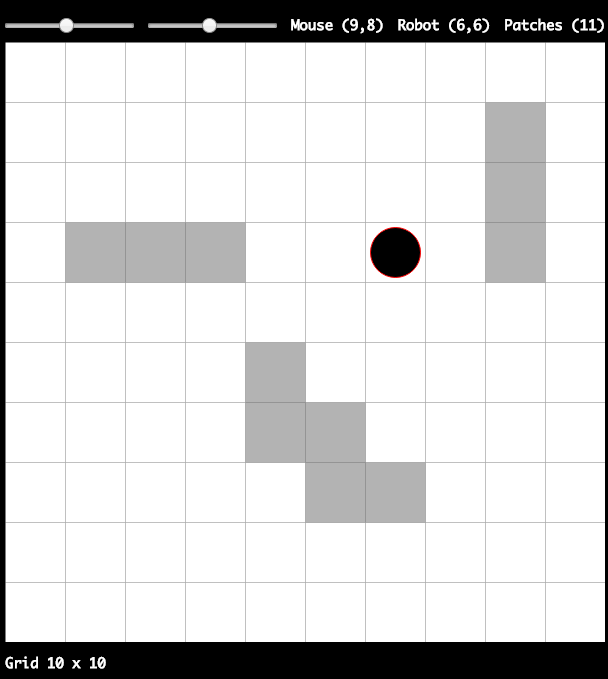
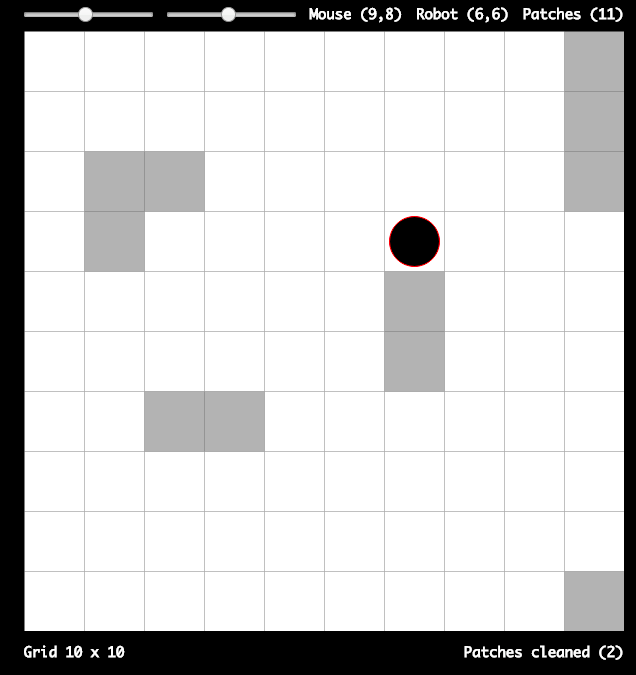
Add 'Patches cleaned' display

diff --git a/src/js/controls/detailsInput.js b/src/js/controls/detailsInput.js
@@ -4,6 +4,11 @@ const updateNumberOfDirtPatches = (surface, $patches) => {
   $patches.innerHTML = `Patches (${dirtPatches})`;
 };
 
+let patchesCleaned = 0;
+const updateNumberOfDirtPatchesCleaned = $patchesCleaned => {
+  $patchesCleaned.innerHTML = `Patches cleaned (${++patchesCleaned})`;
+};
+
 const updateRobotPosition = (surface, $robot) => {
   const { robot, convertPositionToCoords } = surface;
   if (robot) {
@@ -23,17 +28,16 @@ const updateDisplay = (surface, $patches, $robot, $grid) => {
   updateGridDimensions(surface, $grid);
 };
 
-export default (canvas, $patches, $robot, $grid, surface) => {
+export default (canvas, $patches, $patchesCleaned, $robot, $grid, surface) => {
   updateDisplay(surface, $patches, $robot, $grid);
   // Updates the number of dirt patches, the robot position and the grid dimensions,
   // each time that any object is modified.
   canvas.on({
-    'object:modified': updateDisplay.bind(
-      null,
-      surface,
-      $patches,
-      $robot,
-      $grid
-    ),
+    'object:modified': ({ action }) => {
+      if (action === 'clean') {
+        updateNumberOfDirtPatchesCleaned($patchesCleaned);
+      }
+      updateDisplay(surface, $patches, $robot, $grid);
+    },
   });
 };

diff --git a/src/js/controls/mouseInput.js b/src/js/controls/mouseInput.js
@@ -1,6 +1,13 @@
 export default ($mouse, surface) => {
   const $canvas = surface.canvas.lowerCanvasEl;
 
+  const cleanIfDirty = surface => {
+    if (surface.robot) {
+      const cell = surface.getCellAt(surface.robot.left, surface.robot.top);
+      return cell.properties.dirty ? cell.execute('clean') : cell;
+    }
+  };
+
   // Displays cell coordinates according to the mouse position.
   $canvas.addEventListener('mousemove', ({ offsetX, offsetY }) => {
     if (surface.isWithinBoundaries(offsetX, offsetY)) {
@@ -14,15 +21,11 @@ export default ($mouse, surface) => {
   $canvas.addEventListener('click', ({ offsetX, offsetY, shiftKey }) => {
     if (shiftKey) {
       surface.setRobot(offsetX, offsetY);
-      return surface
-        .getCellAt(surface.robot.left, surface.robot.top)
-        .execute('clean');
+      return cleanIfDirty(surface);
     }
 
     surface.getCellAt(offsetX, offsetY).execute('dirt');
 
-    if (surface.robot) {
-      surface.getCellAt(surface.robot.left, surface.robot.top).execute('clean');
-    }
+    cleanIfDirty(surface);
   });
 };

diff --git a/src/js/app.js b/src/js/app.js
@@ -14,6 +14,7 @@ const surface = new Surface(canvas, { x: 10, y: 10 });
 // Elements that display useful information.
 const $mouse = document.querySelector('#mouse');
 const $patches = document.querySelector('#patches');
+const $patchesCleaned = document.querySelector('#patches-cleaned');
 const $robot = document.querySelector('#robot');
 const $xRange = document.querySelector('#x-range');
 const $yRange = document.querySelector('#y-range');
@@ -21,5 +22,5 @@ const $grid = document.querySelector('#grid');
 
 mouseInput($mouse, surface);
 keyboardInput(surface);
-detailsInput(canvas, $patches, $robot, $grid, surface);
+detailsInput(canvas, $patches, $patchesCleaned, $robot, $grid, surface);
 sliderInput($xRange, $yRange, surface);

diff --git a/src/js/controls/keyboardInput.js b/src/js/controls/keyboardInput.js
@@ -15,9 +15,10 @@ export default surface => {
     // Execute only if an arrow key was pressed.
     if (move) {
       robot.execute(move);
-
-      // Always clean current cell of the robot.
-      surface.getCellAt(robot.left, robot.top).execute('clean');
+      const cell = surface.getCellAt(robot.left, robot.top);
+      if (cell.properties.dirty) {
+        cell.execute('clean');
+      }
     }
   });
 };

diff --git a/src/js/core/Cell.js b/src/js/core/Cell.js
@@ -42,7 +42,7 @@ export default class Cell extends fabric.Rect {
         nextAction.objectProperties
       );
 
-      this.canvas.trigger('object:modified');
+      this.canvas.trigger('object:modified', { action });
       return this;
     }
     return this;

diff --git a/index_template.html b/index_template.html
@@ -30,6 +30,7 @@
     <canvas tabindex="1" id="canvas" width="600" height="600"></canvas>
     <div class="details">
       <div id="grid">Grid N x N </div>
+      <div id="patches-cleaned"> Patches cleaned (0) </div>
     </div>
   </div>
 </body>

diff --git a/src/js/core/Surface.js b/src/js/core/Surface.js
@@ -146,6 +146,7 @@ export default class Surface {
     });
 
     this.canvas.add(this.robot);
+    this.canvas.trigger('object:modified');
     return this.robot;
   }
 

diff --git a/README.md b/README.md
@@ -6,7 +6,7 @@
  - node: ~=v5.12.0
  - npm: ~=3.8.6
 
-**Note 1:** One of the project dependencies is [fabric](http://fabricjs.com/) and it is currently in a transition period over to v2. The tests run properly only with node v5 as other v6+ is out of scope for fabric v1. 
+**Note 1:** One of the project dependencies is [fabric](http://fabricjs.com/) and it is currently in a transition period over to v2. The tests run properly only with node v5 as other v6+ is out of scope for fabric v1.
 
 **Note 2:** [fabric](http://fabricjs.com/) requires an old version of JSDOM for testing under node which requires [Python 2.7](https://www.python.org/download/releases/2.7/). If you want to run the tests under Windows/Linux you will need to install Python seperetely; MacOS is fine.
 
@@ -47,7 +47,7 @@ _See test output at the end of the readme._
  1. The room dimensions are specified by the sliders; left slider for X and right slider for Y coordinates. The dimensions are indicated by the grid size at the bottom left of the panel,  **Grid 10 x 10**.
  2. The location of the robot can be specified by clicking anywhere on the grid while holding down **Shift**. The coordinates of the mouse are indicated in the top panel, **Mouse (9, 8)**.
  3. The robot can be moved using the **arrow** keys and its position is also displayed and updated while the robot is moving **Robot (6, 6)**.
- 4. The location of the patches can be specified by clicking anywhere on the grid. A patch is indicated by a grey colour on the tile. The panel also shows the patches left **Patches (11)**.
+ 4. The location of the patches can be specified by clicking anywhere on the grid. A patch is indicated by a grey colour on the tile. The panel also shows the patches left **Patches (11)** and the patches hoovered **Patches cleaned (2)**.
 
 **Assumptions:**
 1. Patches cannot be placed on robots.
